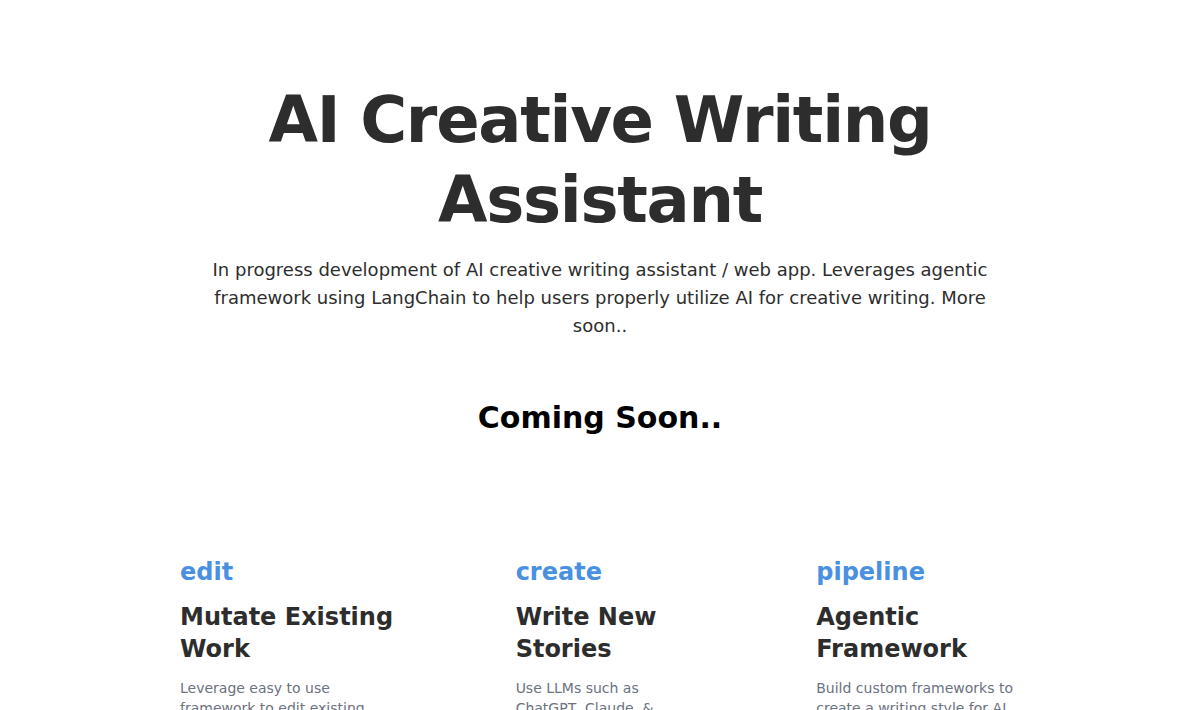
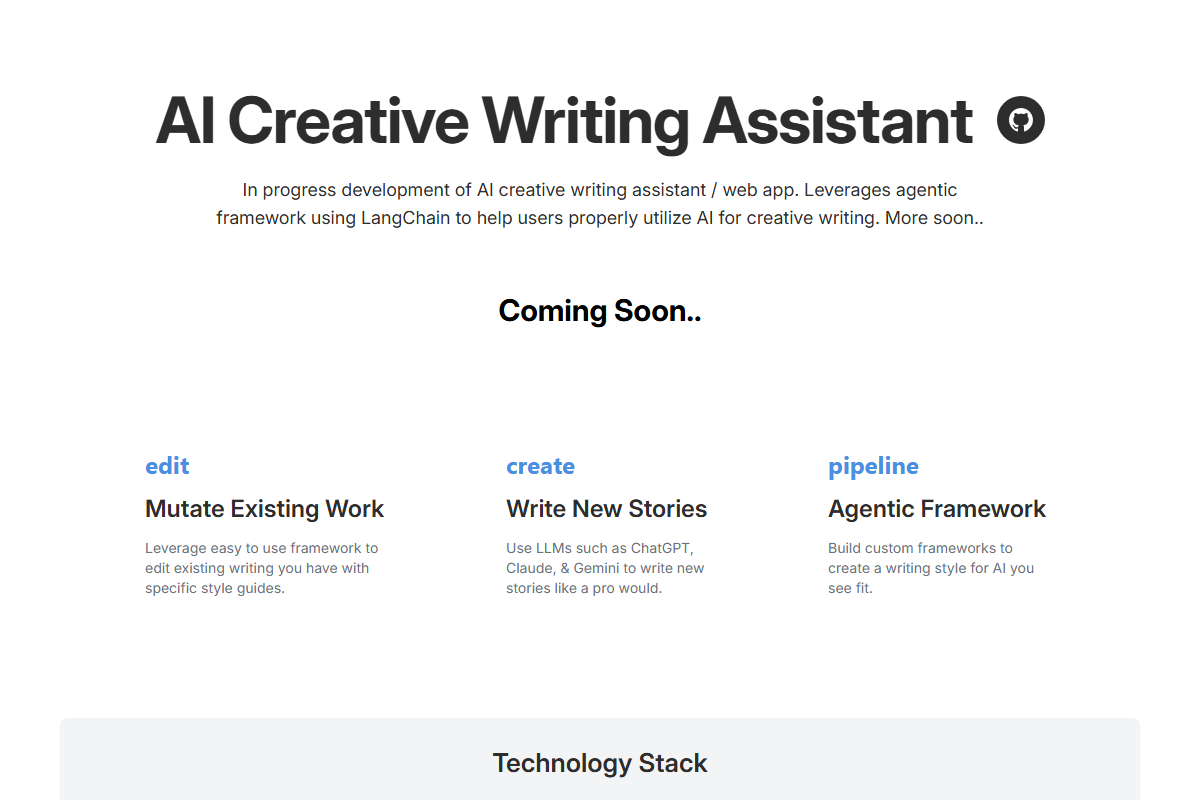
fix: improve screenshot generation viewport and add claudefig
Increase viewport from 1200 to 1440px to prevent title text
wrapping in preview images. Center-crop to 1200px output.
Add claudefig to project list and regenerate all previews.

diff --git a/scripts/generate-screenshots.js b/scripts/generate-screenshots.js
@@ -8,6 +8,11 @@ const __dirname = dirname(__filename);
 // Project configurations for screenshots
 const projects = [
   {
+    id: 'claudefig',
+    url: '/work/claudefig',
+    name: 'claudefig'
+  },
+  {
     id: 'ai-menu-chatbot',
     url: '/work/ai-menu-chatbot',
     name: 'Chipotle AI Menu'
@@ -87,7 +92,7 @@ async function generateWithPlaywright(outputDir) {
   
   try {
     const context = await browser.newContext({
-      viewport: { width: 1200, height: 800 },
+      viewport: { width: 1440, height: 900 },
       deviceScaleFactor: 1,
       ignoreHTTPSErrors: true
     });
@@ -235,7 +240,7 @@ async function screenshotWithRetry(context, baseUrl, project, outputDir, maxRetr
         path: outputPath,
         type: 'png',
         fullPage: false,
-        clip: { x: 0, y: headerHeight, width: 1200, height: 800 }
+        clip: { x: 120, y: headerHeight, width: 1200, height: 800 }
       });
       
       console.log(`✅ Generated: ${project.id}.png`);
